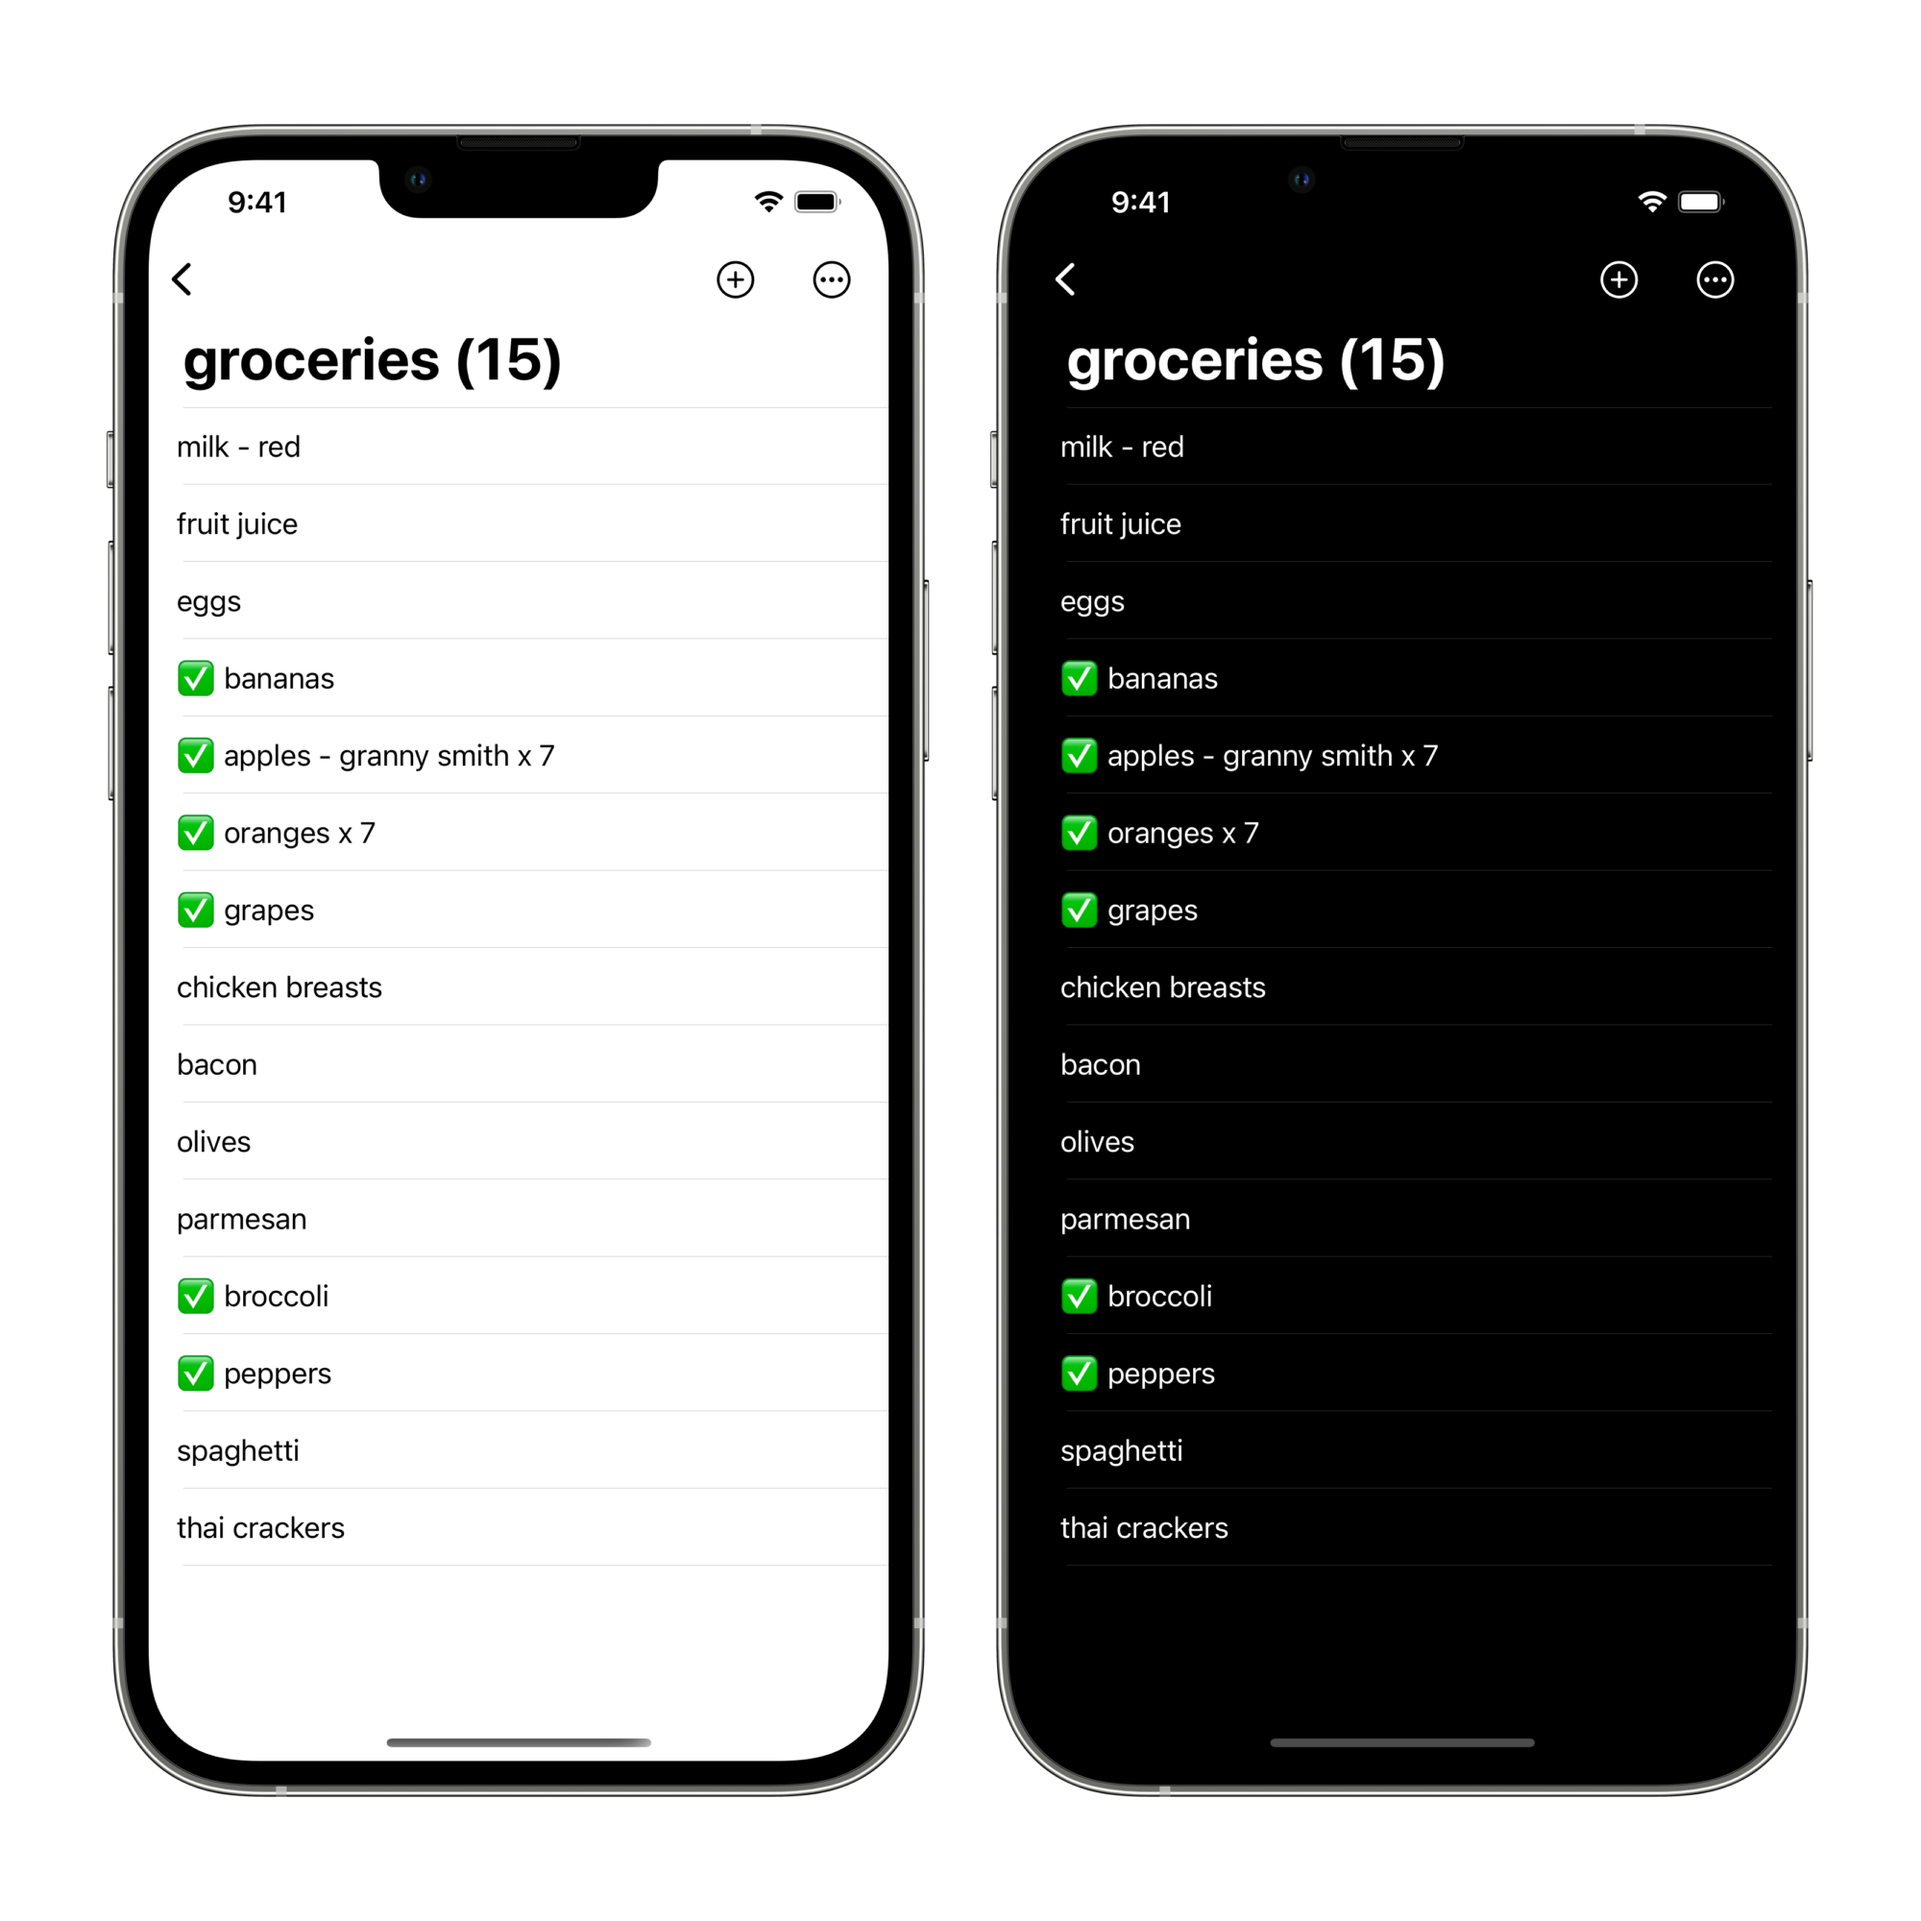
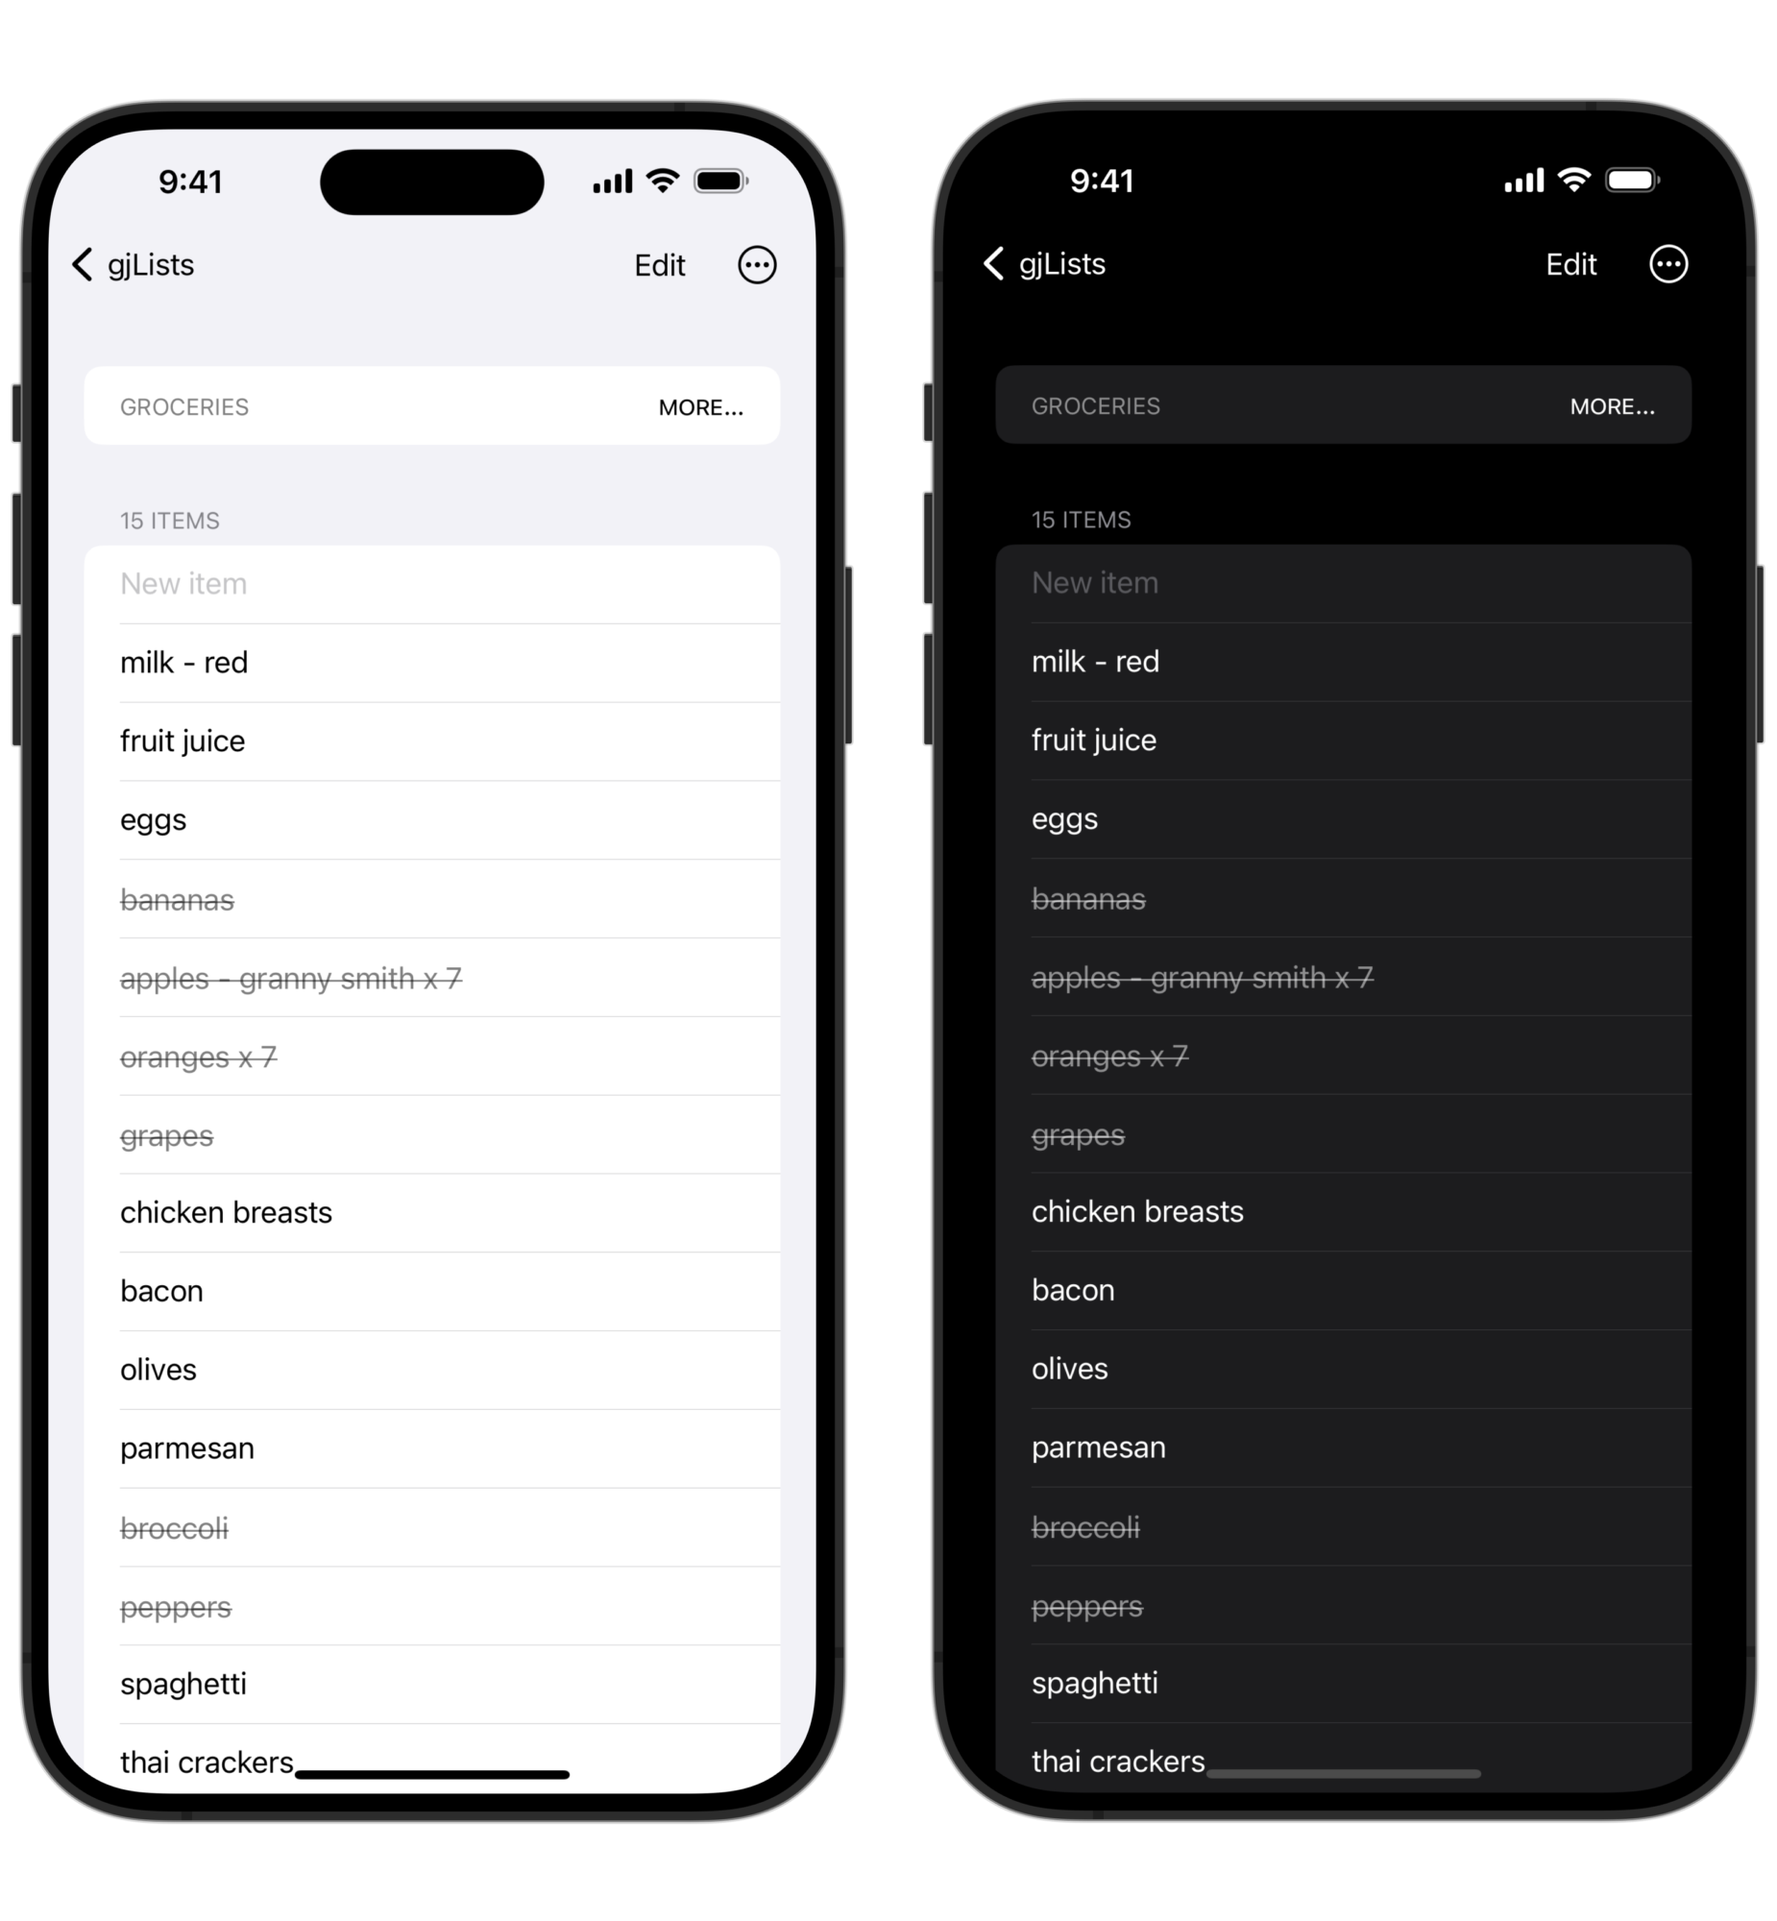
gjlists 2024.1 release

diff --git a/projects/gjLists.md b/projects/gjLists.md
@@ -25,6 +25,7 @@ An iOS app for creating lists.
         <li data-src="/images/gjLists/gjLists-6m.png"><img src="/images/gjLists/gjLists-6s.png" width=256px></li>
         <li data-src="/images/gjLists/gjLists-7m.png"><img src="/images/gjLists/gjLists-7s.png" width=256px></li>
         <li data-src="/images/gjLists/gjLists-8m.png"><img src="/images/gjLists/gjLists-8s.png" width=256px></li>
+        <li data-src="/images/gjLists/gjLists-9m.png"><img src="/images/gjLists/gjLists-9s.png" width=256px></li>
     </ul>
 </div>
 
@@ -32,23 +33,25 @@ Use **gjLists** to manage your lists and to-do items using a clean, simple, and 
 
 A list is just a collection of items (names, words, sentences, etc.), but by marking items as done/complete, it can be used as a to-do list.
 
-Creating lists is easy. Tap the ⨁ to add a new list or list item.
+Creating lists and items is easy. Enter the name in the _New list/item_ field and tap _Done_. 
 
 Swiping right on an item will mark it as done, either by displaying a checkmark or using strikeout text (the _Strikeout completed items_ setting configures which option is used):
 <br>![mark item as done](/images/gjLists/0-done.png){:width="300px"}
 
 Swiping right on a completed item will undo it:
-<br>![undo item](/images/gjLists/0-undo.png){:width="300px"}
+<br>![undo item](/images/gjLists/1-undo.png){:width="300px"}
 
-Swipe left on a list or list item to delete it:
-<br>![delete list or item](/images/gjLists/0-delete.png){:width="300px"}
+Swipe left on a list or item to delete it:
+<br>![delete list or item](/images/gjLists/2-delete.png){:width="300px"}
 
-Swipe right on a list to edit the list's name:
-<br>![edit list name](/images/gjLists/0-edit.png){:width="300px"}
+Tap on _More..._ in a list to edit the list's name:
+<br>![edit list name](/images/gjLists/3-more.png){:width="300px"}
+<br>![edit list name](/images/gjLists/4-name.png){:width="300px"}
+
+Tap on the list's ⚙ to edit its settings:
+<br>![edit list name](/images/gjLists/5-settings.png){:width="300px"}
 
 Rearrange lists and items by tapping, holding, and dragging them.
-
-If you are logged into your iCloud account and the _Sync to iCloud_ setting is on (enabled by default), your lists are saved to iCloud and will be synchronised with all your iCloud devices. If the setting is off, your lists will only be stored locally on your device.
 
 Lists can also be created by pasting them from the device's clipboard. For example, when on the lists screen, selecting the _Paste from clipboard_ option from the ellipsis (…) menu with the following text on the clipboard:
 <br>
@@ -65,7 +68,7 @@ violet
 
 will create the following list:
 <br>
-![pasted list](/images/gjLists/0-pasted-list.png){:width="300px"}
+![pasted list](/images/gjLists/6-pasted-list.png){:width="300px"}
 <br>
 This allows lists to be created in other apps e.g. text editors, either on or off the device, pasted to the device's clipboard e.g. via _Universal Clipboard_ and pasted into **gjLists**. One or more lists may be pasted from the clipboard. The name of the list is taken from the text inside the `[]` and must be on its own line. Each line of text after the list name is taken as a list item, unless it is a multi-line item, see below.
 
@@ -81,37 +84,43 @@ item three with 'quotes'
 
 will add the following items to the list:
 <br>
-![pasted items](/images/gjLists/0-pasted-items.png){:width="300px"}
+![pasted items](/images/gjLists/7-pasted-items.png){:width="300px"}
 <br>Each item must be on its own line, except for multi-line items which must be enclosed in double-quotation marks i.e. `"item"`. Completed items must be prefixed by `[x] ` - note the space after the closing `]`. Again, this allows list items to be created outside of the app and simplifies the creation of large lists or exporting list items from other apps.
 
 The following options are available to configure the behaviour of lists:
-- ***Done items at end*** - items marked as done/completed are moved to the end of the list. Default is `No`.
-- ***Undo items at start*** - items marked as undone are moved to the beginning of the list. Default is `No`.
-- ***New items at end*** - new items are added to the end of the list. Default is `Yes`.
+- ***Add new items to end*** - new items are added to the end of the list. Default is `Yes`.
+- ***Move done items to end*** - items marked as done/completed are moved to the end of the list. Default is `No`.
+- ***Move undo items to start*** - items marked as undone are moved to the beginning of the list. Default is `No`.
 
-These settings apply to the list for which they were set i.e. each list has its own settings. To configure a list, view it and select the appropriate setting from the ellipsis (…) menu to toggle the setting. Just selecting the ellipsis (…) menu will show the list's current settings.
+These settings apply to the list for which they were set i.e. each list has its own settings.
 
 The following housekeeping options to manage the items in a list are available from the ellipsis (…)  menu when viewing the list:
 - ***Mark all items as done*** - any item marked as undone will be marked as done.
+- ***Mark all items as not done*** - any item marked as done will be marked as undone.
 - ***Duplicate list*** - the current list is copied into a new list with the same name suffixed with _' - copy'_. This is useful for creating working lists from a master list.
 - ***Delete done items*** - all items marked as done are deleted from the list.
 - ***Delete all items*** - all items are deleted from the list i.e. the list is emptied.
 
 The following housekeeping options to manage all lists are available:
-- ***Delete all lists*** (accessible from the ellipsis (…) menu on the lists screen) - all lists, and their items, are deleted from the device and iCloud (if iCloud syncing is turned on). You will have no lists after confirming this option. ***Use with caution***.
+- ***Delete all lists*** (accessible from the ellipsis (…) menu on the lists screen) - all lists, and their items, are deleted from the device and iCloud. You will have no lists after confirming this option. ***Use with caution***.
 - ***Backup lists*** (accessible from the _Settings -> Maintenance_ screen) - all lists are saved to the selected location in iCloud, a device folder, a shared location etc. Use this to regularly back up your lists. You never know when you will need it.
 - ***Restore lists*** (accessible from the _Settings -> Maintenance_ screen) - all existing lists are deleted and replaced with the lists contained in the backup file in the selected location in iCloud, a device folder, a shared location etc. Use this to restore lists from a previous back up. Your existing lists will be replaced after using this option. ***Use with caution***.
 
+If you are logged into your iCloud account, your lists are saved to iCloud and will be synchronised with all your iCloud devices. Otherwise, your lists will only be stored locally on your device.
+
 **Features:**
-- Requires iOS 15.0 or later.
+- Requires iOS 17.2 or later.
 - Designed for iPhone and iPad.
-- Swipe actions to edit lists and mark items as done/undone.
-- Drag to rearrange lists and items.
+- Swipe actions to delete lists/items and mark items as done/undone.
 - Strikeout completed/done items or mark with a checkmark.
+- Drag to rearrange lists and items.
 - Copy lists and items to and from the clipboard.
+- Duplicate lists.
+- No limit on the number of lists or items in a list.
 - Backup and restore your lists.
 - iCloud list synchronisation across devices.
 - Supports system dark and light modes.
+
 
 **gjLists** is free, there are no ads, and you can download it from the App Store using the link below. If you find it useful and would like to show your appreciation by dropping some spare coins in the tip jar on the *Settings* screen, it would be most appreciated.
 
